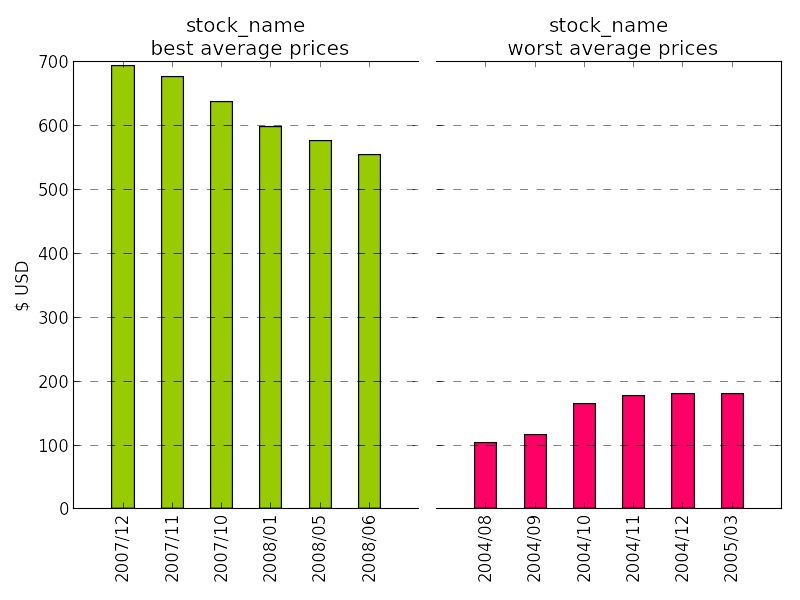
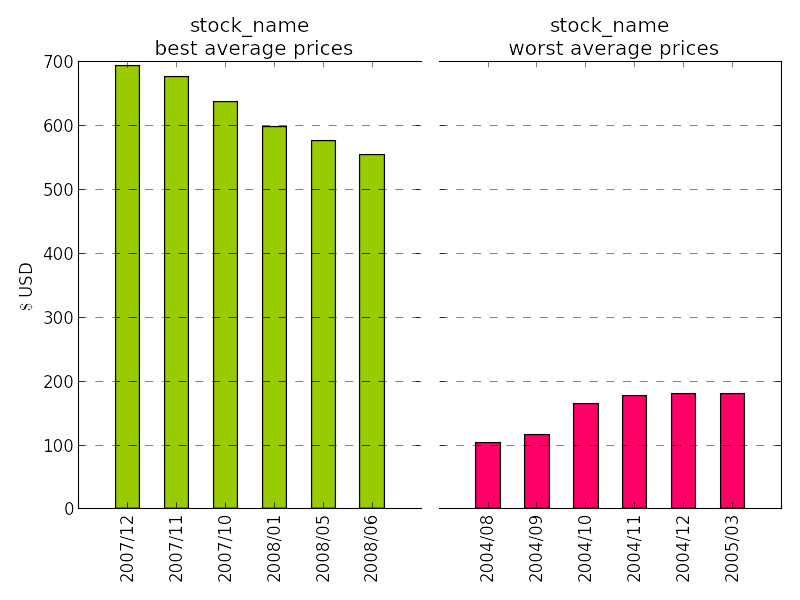
Added some commends and a docstring (tentative) and cleared it with Pep8

diff --git a/stock_visuals.py b/stock_visuals.py
@@ -1,21 +1,26 @@
 __author__ = 'curtismccord'
 
 #!/usr/bin/env python
-# a bar plot with errorbars
+"""
+Makes a bar graph out of imported lists of stock tuples
+"""
 import numpy as np
 import matplotlib.pyplot as plt
 
-#Import jsons and functions OR function results
+# Import jsons and functions OR function results OR the classes...
 
 
-six_best_months = [('2007/12', 693.76), ('2007/11', 676.55), ('2007/10', 637.38), ('2008/01', 599.42), ('2008/05', 576.29), ('2008/06', 555.34)]
+six_best_months = [('2007/12', 693.76), ('2007/11', 676.55), ('2007/10', 637.38), ('2008/01', 599.42),
+                   ('2008/05', 576.29), ('2008/06', 555.34)]
 
-six_worst_months = [('2004/08', 104.66), ('2004/09', 116.38), ('2004/10', 164.52), ('2004/11', 177.09), ('2004/12', 181.01), ('2005/03', 181.18)]
+six_worst_months = [('2004/08', 104.66), ('2004/09', 116.38), ('2004/10', 164.52), ('2004/11', 177.09),
+                    ('2004/12', 181.01), ('2005/03', 181.18)]
 
 best_stock_prices = []
 best_stock_dates = []
 worst_stock_prices = []
 worst_stock_dates = []
+
 
 def sort_stock_tuples(stock_result):
     """
@@ -34,29 +39,45 @@ sort_stock_tuples(six_best_months)
 sort_stock_tuples(six_worst_months)
 
 N = 6
-
 ind = np.arange(N)  # the x locations for the groups
-width = 0.45       # the width of the bars
-
+width = 0.5       # sets the width of the bars
+# sets two subplot objects to share a y axis
 fig, (ax1, ax2) = plt.subplots(1, 2, sharey=True)
 
+# names the subplots and sets their parametres
 prices1 = ax1.bar(ind, best_stock_prices, width, color='#99CC00', align='center')
-
 prices2 = ax2.bar(ind, worst_stock_prices, width, color='#FF0066', align='center')
 
-# add some text for labels, title and axes ticks
+# sets the titles for each subplots
 ax1.set_title('stock_name\n best average prices')
 ax2.set_title('stock_name\n worst average prices')
+
+# sets ticks along the x-axis
 ax1.set_xticks(ind)
 ax2.set_xticks(ind)
+
+# makes the inside borders invisible
 ax2.spines["left"].set_visible(False)
 ax1.spines["right"].set_visible(False)
-ax1.set_xticklabels( (best_stock_dates), rotation='90')
-ax2.set_xticklabels( (worst_stock_dates), rotation='90')
+
+# sets the x-axis labels using the variables generated above and makes them vertical
+ax1.set_xticklabels((best_stock_dates), rotation='90')
+ax2.set_xticklabels((worst_stock_dates), rotation='90')
+
+# puts a dotted line grid over the subplots to improve visibility
 ax1.yaxis.grid(b=True, linestyle="--")
 ax2.yaxis.grid(b=True, linestyle="--")
-ax1.set_ylabel('$ USD')
 
+# sets the y- axis label... with subtle LaTeX!
+ax1.set_ylabel(r'$\$$ USD')
+
+# tightens and aligns formatting
 plt.tight_layout()
+
+# makes the plot interactive
+# plt.ion()
+
+# saves a .png file in the directory
 fig.savefig('stock_bar.png', transparent=True)
+
 plt.show()
